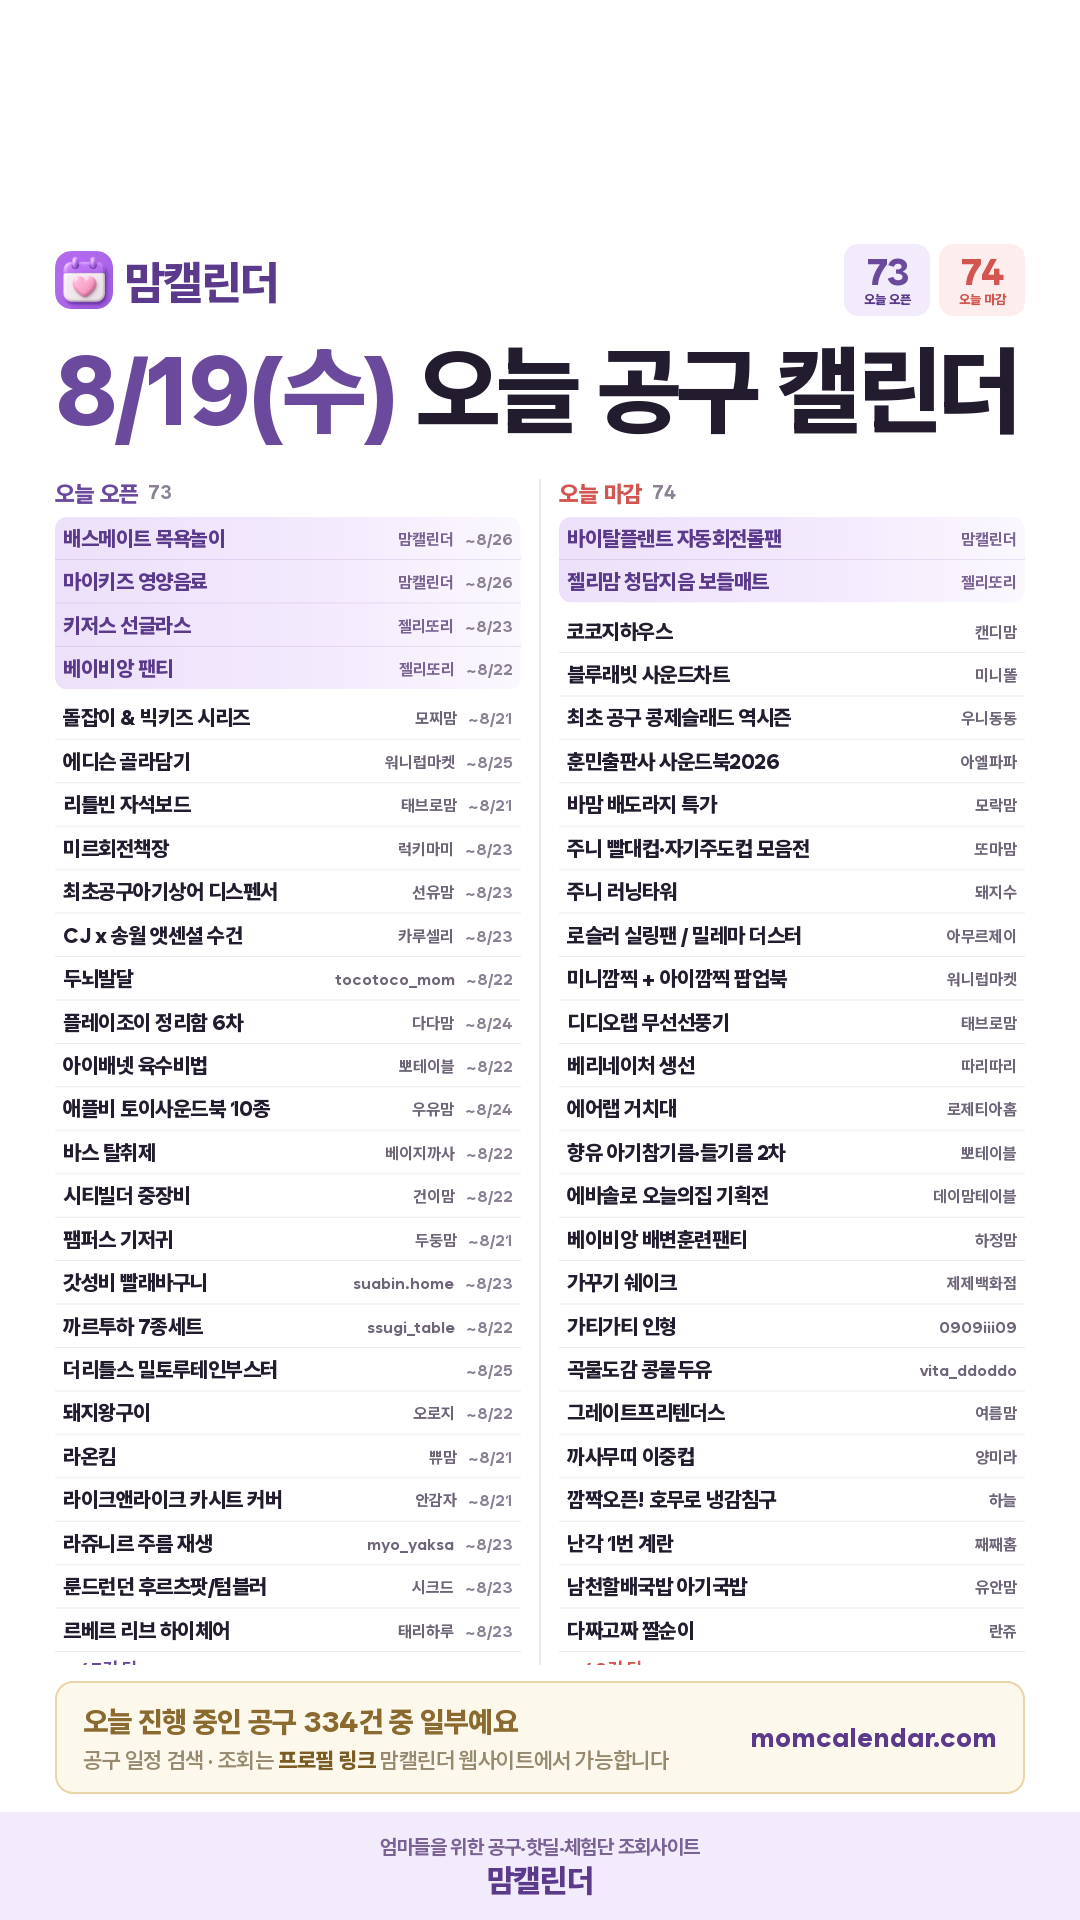
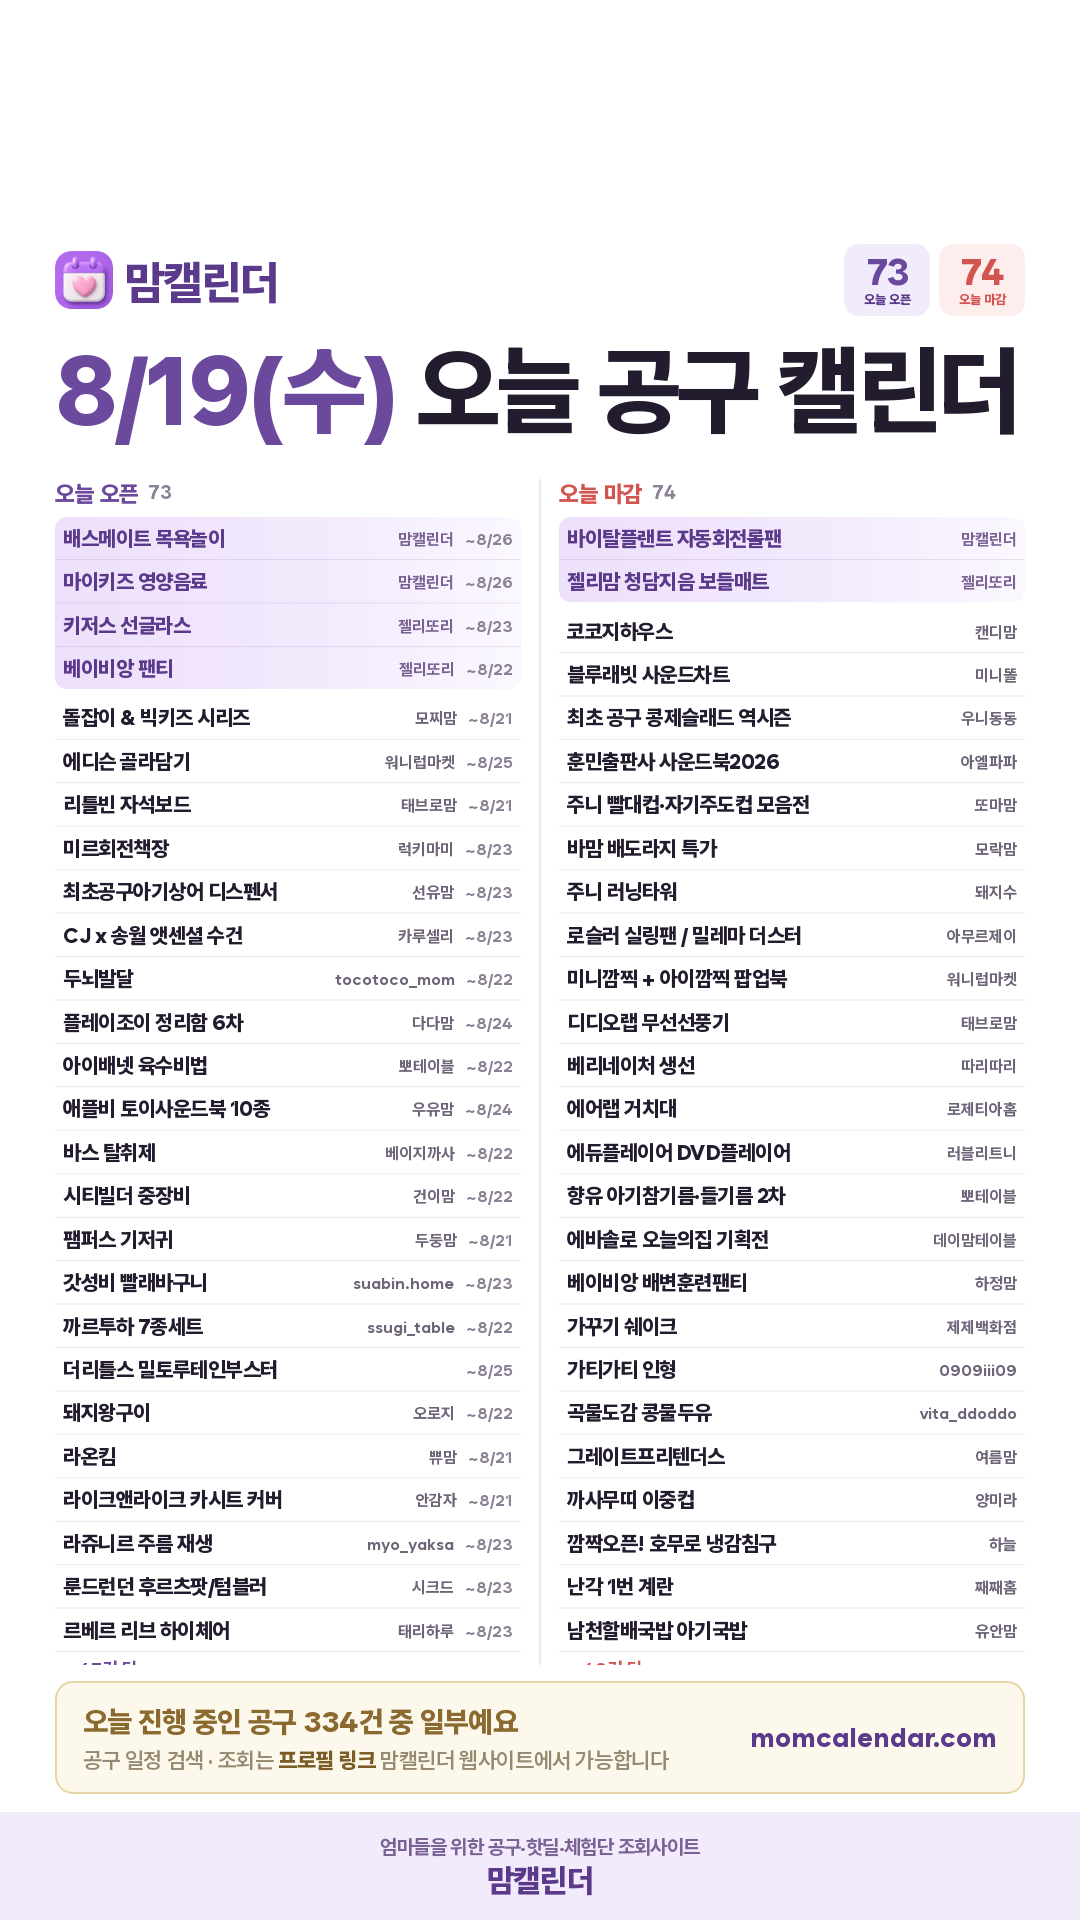
아침 인스타 카드 (2026-08-19)

Changed region(s): [[0.5194, 0.5938, 0.7333, 0.875], [0.5194, 0.4062, 0.7639, 0.4688], [0.8556, 0.5938, 0.9472, 0.8438]]

diff --git a/daily/2026-08-19.html b/daily/2026-08-19.html
@@ -86,14 +86,15 @@ textarea{width:100%;height:260px;border:1px solid #E3DCEF;border-radius:10px;pad
 · 블루래빗 사운드차트 — 미니똘
 · 최초 공구 콩제슬래드 역시즌 — 우니동동
 · 훈민출판사 터치터치 사운드북2026 — 아엘파파
-· 바맘 배도라지 특가 — 모락맘
 · 주니 빨대컵·자기주도컵 모음전 — 또마맘
+· 바맘 배도라지 특가 — 모락맘
 · 주니 러닝타워 — 돼지수
 · 로슬러 실링팬 / 밀레마 더스터 — 아무르제이
 · 미니깜찍 + 아이깜찍 팝업북 — 워니럽마켓
 · 디디오랩 무선선풍기 — 태브로맘
 · 베리네이처 생선 — 따리따리
 · 에어랩 거치대 — 로제티아홈
+· 에듀플레이어 일체형 DVD플레이어 — 러블리트니
 · 향유 아기참기름·들기름 2차 — 뽀테이블
 · 에바솔로 오늘의집 기획전 — 데이맘테이블
 · 베이비앙 배변훈련팬티 — 하정맘
@@ -109,7 +110,6 @@ textarea{width:100%;height:260px;border:1px solid #E3DCEF;border-radius:10px;pad
 · 닥터체크 리포퍼철분 츄어블(자두맛) — 남약사
 · 닥터탱글 히팅뷰러 — lovingyoung
 · 대마도 1박 2일 PKG — 로니맘
-· 데켓 쿡플레이트 — mini_home_____
 …나머지 29건은 맘캘린더 사이트에서 보실 수 있어요
 
 ━━━━━━━━━━━━━━
@@ -123,7 +123,7 @@ textarea{width:100%;height:260px;border:1px solid #E3DCEF;border-radius:10px;pad
 ⚠ 공구 일정은 판매자 사정에 따라 변경되거나 조기 마감될 수 있어요. 구매 전에 해당 셀러 계정에서 한 번 더 확인해 주세요.
 
 #맘캘린더 #공구일정 #육아공구 #육아용품 #책육아 #공구정보 #육아템 #먹거리공구 #살림템 #교구 #유모차 #영양제</textarea>
-    <div class="meta">2198자 / 2200자 · 오픈 30/58 · 마감 30/59</div>
+    <div class="meta">2199자 / 2200자 · 오픈 30/58 · 마감 30/59</div>
     <button class="btn btn2" onclick="cp('cap','캡션')">캡션 복사</button>
   </div>
   <div class="card">
